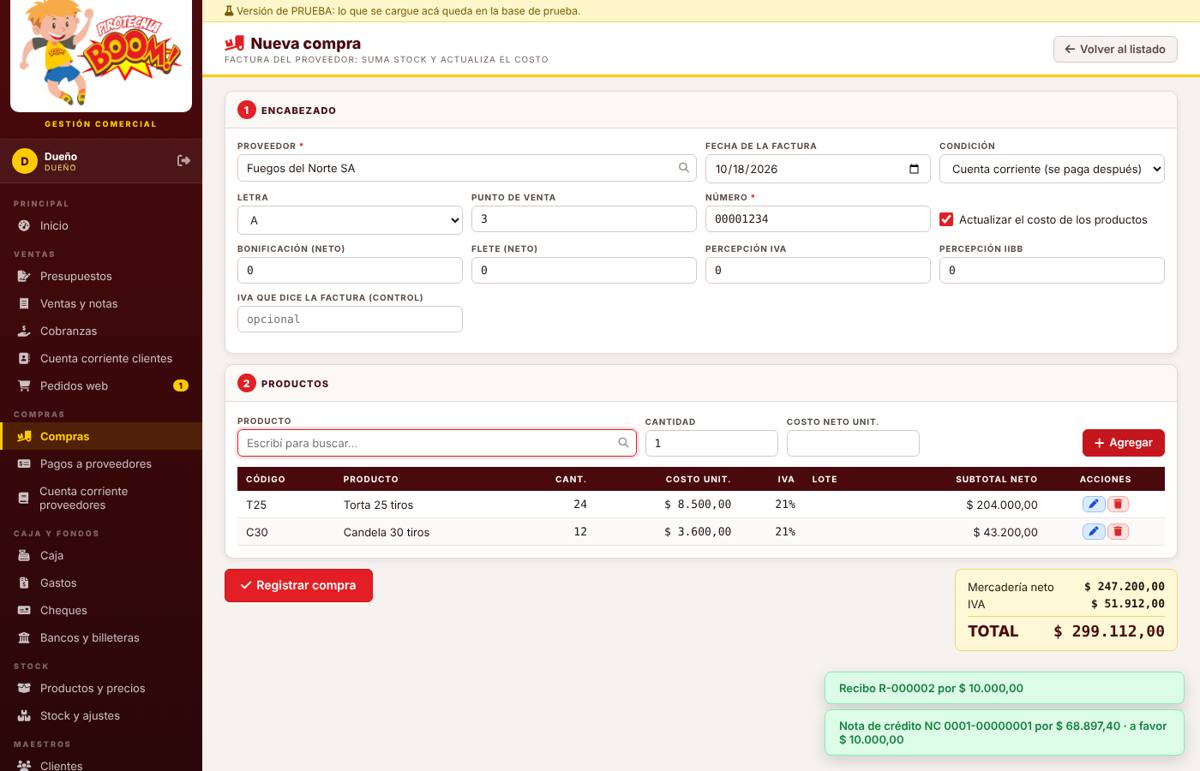
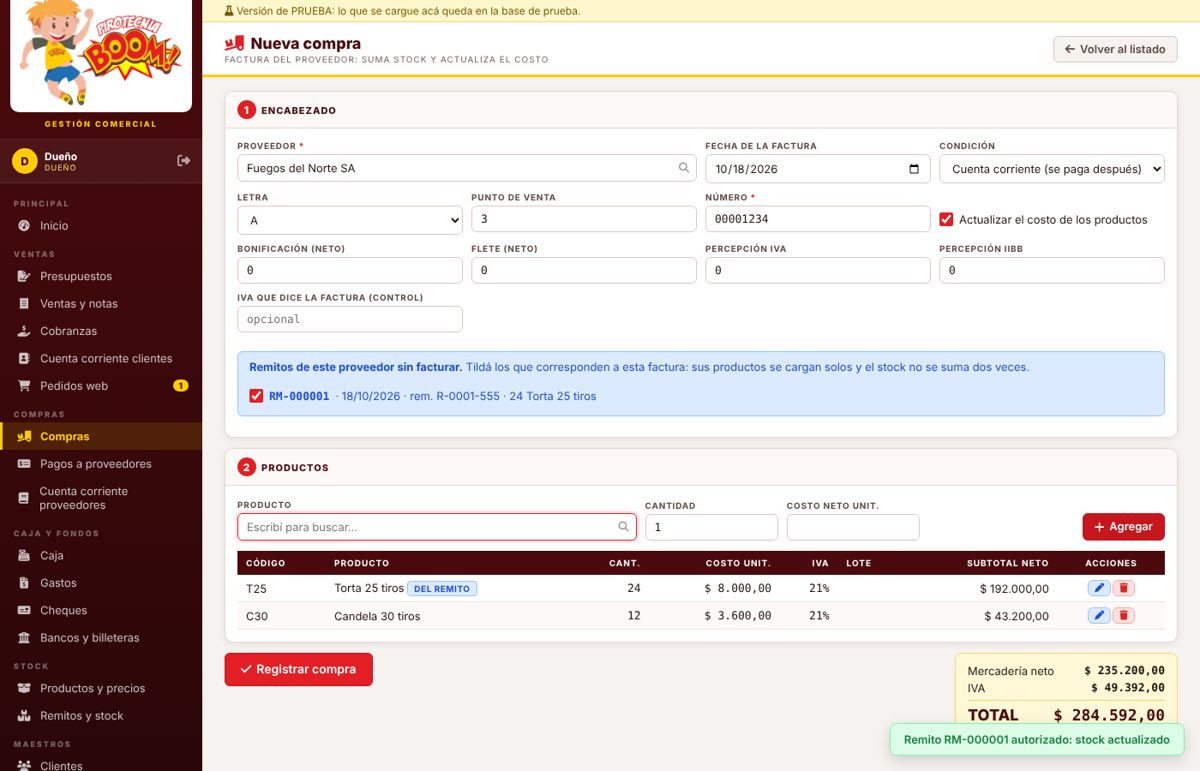
Manual y circuitos: remitos, compras con remitos y Libro IVA Compras
Claude-Session: https://claude.ai/code/session_017b1w5AMczjtWGQrhQYJVcd

diff --git a/manual/index.html b/manual/index.html
@@ -184,7 +184,7 @@ const S = [
     ['categorias','<b>Categorías</b>: los rubros del catálogo y su orden.'],
     ['proveedores','<b>Proveedores</b>.'],
     ['productos','<b>Productos y precios</b>: cada producto con su costo. Los precios salen solos.'],
-    ['stock','<b>Stock y ajustes</b>: un ajuste de tipo Inventario inicial con lo que hay en el depósito.'],
+    ['stock','<b>Remitos y stock</b>: un remito de <b>Ingreso</b> con motivo <b>Inventario inicial</b> con lo que hay en el depósito.'],
     ['conceptos','<b>Tipos y conceptos de gasto</b>: luz, alquiler, sueldos, etc.'],
     ['clientes','<b>Clientes</b> habituales y mayoristas (los nuevos también se cargan al vender).'],
     ['caja','<b>Caja</b>: abrila con el efectivo del día. Ya podés vender.']] },
@@ -192,7 +192,7 @@ const S = [
 { id:'inicio', g:'Principal', t:'Inicio', shot:'p_inicio', cap:'Tablero de Inicio.',
   para:'Resumen del día apenas entrás: cuánto se vendió, si la caja está abierta y qué está pendiente.',
   pasos:['Mirá las tarjetas de arriba: <b>Ventas de hoy</b>, <b>Ventas del mes</b> (ya descontadas las notas de crédito), <b>Cobrado hoy</b> y <b>Clientes deben</b>.',
-    'La segunda fila muestra si la <b>Caja</b> está abierta, cuántos <b>Pedidos web</b> esperan confirmación, cuántos <b>Presupuestos vigentes</b> hay y, para el dueño, cuánto <b>Debemos a proveedores</b> (el operador ve los productos bajo stock mínimo).',
+    'La segunda fila muestra si la <b>Caja</b> está abierta, cuántos <b>Pedidos web</b> esperan confirmación, cuántos <b>Presupuestos vigentes</b> hay, si hay <b>remitos para autorizar</b> y, para el dueño, cuánto <b>Debemos a proveedores</b> (el operador ve los productos bajo stock mínimo).',
     'El gráfico muestra las ventas de los últimos 7 días.',
     'El cuadro <b>Avisos</b> lista lo que hay que atender: caja cerrada, pedidos para confirmar, presupuestos que vencen en 2 días, cheques que vencen en la semana y productos bajo el mínimo. Cada aviso tiene un enlace que te lleva a la pantalla.',
     'Arriba a la derecha tenés atajos: ' + B('+ Nueva venta') + ' y ' + B('Nuevo presupuesto','y') + '.'],
@@ -300,9 +300,10 @@ const S = [
     'Si nadie lo confirma en 48 h, vence solo.'] },
 
 { id:'compras', g:'Compras', d:1, t:'Compras', shot:'50_compra', cap:'Carga de una factura de compra.',
-  para:'Facturas de proveedores. Suman stock y actualizan el costo de los productos, y con el costo se recalculan los precios.',
+  para:'Facturas de proveedores. Suman stock y actualizan el costo de los productos, y con el costo se recalculan los precios. Cada factura queda con su remito.',
   pasos:['Tocá ' + B('+ Nueva compra') + '.',
     '<b>Paso 1 · Encabezado.</b> Elegí el <b>Proveedor</b>, la <b>Fecha de la factura</b> y la <b>Condición</b>: Cuenta corriente (se paga después) o Contado (se paga ahora).',
+    '<b>Si la mercadería ya había llegado con remito</b>, al elegir el proveedor aparece un recuadro azul con sus <b>remitos sin facturar</b>. Tildá los que corresponden a esta factura: sus productos se cargan solos (dicen <b>DEL REMITO</b>) y solo tenés que poner el costo. Si no aparece nada, la factura da entrada al stock y genera su remito sola.',
     'Completá <b>Letra</b>, <b>Punto de venta</b> y <b>Número</b> tal como dice la factura.',
     'Si la factura tiene bonificación, flete o percepciones, cargalos. En <b>IVA que dice la factura</b> podés poner el IVA impreso para controlar que coincida.',
     'Dejá tildado <b>Actualizar el costo de los productos</b> para que los precios se recalculen con este costo.',
@@ -312,7 +313,10 @@ const S = [
     ['Bonificación / Flete (neto)','Sin IVA.','No'],['Percepción IVA / IIBB','Importe de cada percepción.','No'],['IVA que dice la factura','Solo para control.','No'],['Actualizar el costo','Tildado = los precios se recalculan.','No'],
     ['Producto, Cantidad, Costo neto unit.','Una línea por renglón de la factura.','Sí'],['Lote / vence','Solo en productos que lo piden.','A veces']],
   botones:[['Billete verde','Pagar la factura.'],['Flecha amarilla','Nota de crédito o débito del proveedor: por devolución de mercadería (elegís cantidades) o por importe (neto y alícuota).'],['Círculo tachado','Anular la compra: solo para errores de carga. Saca del stock lo que entró y vuelve el costo anterior. No se puede si esa mercadería ya se vendió o si la factura tiene pagos.']],
-  ojo:['Si el proveedor te devolvió plata o te bonificó, no anules: cargá una nota de crédito del proveedor.'] },
+  ojo:['Si la factura no coincide con los remitos tildados (otra cantidad o un producto de más), el sistema te muestra la diferencia y pregunta. Si confirmás, el stock queda <b>como dice la factura</b>.',
+    'El stock nunca se suma dos veces: lo que entró con el remito se reemplaza por lo que dice la factura, con su costo real.',
+    'Si anulás una factura que tenía remitos, esos remitos vuelven a quedar <b>sin facturar</b> y la mercadería sigue en stock.',
+    'Si el proveedor te devolvió plata o te bonificó, no anules: cargá una nota de crédito del proveedor.'] },
 
 { id:'pagos', g:'Compras', d:1, t:'Pagos a proveedores', shot:'p_pagos', cap:'Listado de órdenes de pago.',
   para:'Órdenes de pago a proveedores, separadas de las compras. Se paga con efectivo, transferencia, cheques de la cartera o cheques propios.',
@@ -383,16 +387,24 @@ const S = [
     ['Código de barras','Para buscar con lector.','No'],['Uso','Venta libre o Uso profesional.','No'],['Edad mínima','Años.','No'],['Descripción','Texto del catálogo.','No'],
     ['Controla stock','Destildar para servicios o conceptos.','No'],['Pide lote y vencimiento','Al comprar pide lote y fecha.','No'],['Nuevo / Destacado / Outlet','Etiquetas del catálogo.','No'],['Envío por correo','Si se puede mandar por correo.','No'],
     ['Fotos','Tocá <b>Subir fotos</b> y elegilas del celular o la computadora (o sacalas con la cámara). Se achican solas y se guardan en el sistema. La estrella elige la principal (la del catálogo); la cruz quita una. Se guardan al tocar Guardar.','No']],
-  ojo:['El stock no se edita acá: se mueve con compras, ventas, notas de crédito y ajustes.','El operador ve los productos pero no los puede modificar ni ve costos.'] },
+  ojo:['El stock no se edita acá: se mueve con compras, ventas, notas de crédito y remitos (menú Remitos y stock).','El operador ve los productos pero no los puede modificar ni ve costos.'] },
 
-{ id:'stock', g:'Stock', t:'Stock y ajustes', shot:'p_stock', cap:'Ajustes de stock y movimientos de un producto.',
-  para:'Inventario inicial, recuentos, mermas, roturas y vencidos. Cada cambio es un ajuste con su motivo.',
-  pasos:['Tocá ' + B('+ Nuevo ajuste') + ' (solo dueño).',
-    'Elegí el <b>Tipo</b>: Inventario inicial (entra), Recuento (+ o −), Merma, Rotura o Vencimiento (salen), Otro (+ o −). Escribí el <b>Motivo</b>.',
-    'Elegí el producto, poné la cantidad y tocá +. En merma, rotura y vencimiento poné la cantidad en positivo: el sistema la descuenta. En recuento poné +5 si sobran o −3 si faltan.',
-    'Tocá ' + B('Registrar ajuste') + '.',
+{ id:'stock', g:'Stock', t:'Remitos y stock', shot:'90_operador', cap:'Listado de remitos: uno para autorizar y uno ya facturado.',
+  para:'Toda entrada o salida de mercadería que no es una venta ni una factura de compra se hace con un <b>remito</b>. El operador lo carga y el <b>dueño lo autoriza</b>: recién ahí se mueve el stock.',
+  pasos:['Tocá ' + B('+ Nuevo remito') + '. Elegí <b>qué pasó con la mercadería</b> (un solo toque):',
+    B('Llegó de un proveedor','s') + ': mercadería que llegó sin factura (o la factura llega después). Elegí el <b>Proveedor</b>; el <b>N° de remito del proveedor</b> es opcional.',
+    B('Ingreso','s') + ': entra mercadería que no es compra. Motivo: Inventario inicial, Recuento (sobrante), Devolución de un cliente u Otro.',
+    B('Egreso','s') + ': sale mercadería que no es venta. Motivo: Merma, Rotura, Vencimiento, Recuento (faltante), Consumo interno / muestra u Otro.',
+    'Elegí el producto, poné la cantidad <b>siempre en positivo</b> y tocá ' + B('+ Agregar','s') + '. Repetí con cada producto.',
+    'Tocá ' + B('Grabar remito') + ' (operador: queda <b>Para autorizar</b>) o ' + B('Grabar y autorizar') + ' (dueño: el stock se mueve en el momento).',
+    '<b>Autorizar</b> (dueño): en el listado, tilde verde del remito → Confirmar. En el menú, el número amarillo junto a <b>Remitos y stock</b> dice cuántos esperan autorización.',
     'Abajo, en <b>Movimientos de un producto</b>, elegí uno y ves cada entrada y salida con su saldo.'],
-  ojo:['Las mermas y roturas se restan como costo en el estado de resultados.'] },
+  campos:[['¿Qué pasó con la mercadería?','Llegó de un proveedor, Ingreso o Egreso.','Sí'],['Proveedor','Solo si llegó de un proveedor.','Sí en ese caso'],['N° de remito del proveedor','El del papel del proveedor.','No'],['Fecha','De la entrega.','No'],
+    ['Motivo','Solo en Ingreso y Egreso.','Sí en ese caso'],['Nota','Detalle del movimiento.','Sí si el motivo es Otro'],['Producto + Cantidad','Al menos uno. Cantidad en positivo.','Sí']],
+  botones:[['Ojo','Ver el remito con sus productos.'],['PDF','Remito en PDF para imprimir o firmar.'],['Tilde verde','Autorizar (solo dueño, solo los pendientes).'],['Círculo tachado','Anular (solo dueño). Si ya estaba autorizado, el stock vuelve atrás. Un remito ya facturado no se anula: se anula la factura.']],
+  extra:`<div class="blk"><h2>Estados del remito</h2><p style="margin:0"><b>Para autorizar</b>: cargado, todavía no movió stock. · <b>Autorizado</b>: el stock ya se movió. · <b>Sin facturar</b>: llegó de un proveedor y espera su factura (aparece al cargar la compra). · <b>Facturado</b>: ya tiene su factura de compra. · <b>Anulado</b>: no cuenta.</p></div>
+  <div class="blk"><h2>El remito al cargar el producto</h2><a class="shot" data-z="img/48_remito.jpg"><img src="img/48_remito.jpg" alt="Nuevo remito" loading="lazy"></a><div class="shotcap">Remito de un proveedor cargado por el dueño.</div></div>`,
+  ojo:['Si en un egreso no hay stock suficiente, el sistema no lo deja autorizar.','Las mermas, roturas y vencidos se restan como costo en el estado de resultados.','Nada se borra: un remito equivocado se anula con su motivo.'] },
 
 { id:'clientes', g:'Maestros', t:'Clientes', shot:'p_clientes', cap:'Listado de clientes.',
   para:'Consumidores y mayoristas, con su deuda y saldo a favor.',
@@ -420,9 +432,12 @@ const S = [
   ojo:['Dar de baja no borra: el registro deja de aparecer en las listas para elegir, pero su historia queda.'] },
 
 { id:'reportes', g:'Reportes', t:'Reportes', shot:'80_resultados', cap:'Estado de resultados del mes.',
-  para:'Dos reportes: el estado de resultados (solo dueño) y las ventas agrupadas.',
+  para:'Tres reportes: el estado de resultados y el Libro IVA Compras (solo dueño), y las ventas agrupadas.',
   pasos:['<b>Estado de resultados</b>: elegí Desde y Hasta. Muestra, sin IVA: ventas brutas, descuentos, recargos, notas de crédito y débito, <b>ventas netas</b>, costo de la mercadería vendida, mermas, <b>margen bruto</b>, cada tipo de gasto y el <b>resultado</b> (ganancia o pérdida), con el % de cada línea sobre las ventas. ' + B('PDF','s') + ' lo descarga.',
-    '<b>Ventas por producto</b>: elegí el período y <b>Agrupar por</b> Producto, Categoría, Cliente, Lista o Día. Muestra cantidad, neto y total; el dueño también ve costo, ganancia y margen %.'] },
+    '<b>Ventas por producto</b>: elegí el período y <b>Agrupar por</b> Producto, Categoría, Cliente, Lista o Día. Muestra cantidad, neto y total; el dueño también ve costo, ganancia y margen %.',
+    '<b>Libro IVA Compras</b>: elegí Desde y Hasta (por defecto, el mes). Una línea por factura, nota de crédito o débito de proveedor con fecha, número, proveedor, CUIT, condición IVA, neto gravado, no gravado, IVA 21 %, 10,5 % y 27 %, percepciones y total. Las notas de crédito restan. Arriba, los totales del período. ' + B('Excel','s') + ' o ' + B('PDF','s') + ' para el contador.'],
+  extra:`<div class="blk"><h2>Libro IVA Compras</h2><a class="shot" data-z="img/95_ivacompras.jpg"><img src="img/95_ivacompras.jpg" alt="Libro IVA Compras" loading="lazy"></a><div class="shotcap">Libro IVA Compras del mes. Los datos son de prueba.</div></div>`,
+  ojo:['El Libro IVA sale de las compras cargadas: si una factura no se cargó, no aparece. Las anuladas no cuentan.'] },
 
 { id:'sistema', g:'Sistema', t:'Usuarios, empresa y contraseña', shot:'p_usuarios', cap:'Usuarios del sistema.',
   para:'Quién entra al sistema, los datos de la empresa que salen en los PDF y en el catálogo, y tu contraseña.',
@@ -528,4 +543,3 @@ document.addEventListener('keydown', e => { if (e.key === 'Escape') { document.q
 window.addEventListener('hashchange', () => ir(location.hash.slice(1)));
 rol(ROL); ir(location.hash.slice(1) || 'empezar');
 </script>
-</body></html>

diff --git a/circuitos/index.html b/circuitos/index.html
@@ -65,11 +65,11 @@ a:focus-visible{outline:2px solid var(--amarillo);outline-offset:2px}
 </header>
 
 <nav>
-  <a href="#p"><b>P</b>Presupuesto</a><a href="#v"><b>V</b>Venta</a><a href="#w"><b>W</b>Pedido web</a><a href="#c"><b>C</b>Cobranza</a><a href="#k"><b>K</b>Compra</a><a href="#o"><b>O</b>Pago a proveedor</a><a href="#s"><b>S</b>Stock</a><a href="#j"><b>J</b>Caja</a><a href="#g"><b>G</b>Gastos</a><a href="#q"><b>Q</b>Cheques</a><a href="#r"><b>R</b>Precios</a>
+  <a href="#p"><b>P</b>Presupuesto</a><a href="#v"><b>V</b>Venta</a><a href="#w"><b>W</b>Pedido web</a><a href="#c"><b>C</b>Cobranza</a><a href="#k"><b>K</b>Compra</a><a href="#o"><b>O</b>Pago a proveedor</a><a href="#s"><b>S</b>Remitos y stock</a><a href="#j"><b>J</b>Caja</a><a href="#g"><b>G</b>Gastos</a><a href="#q"><b>Q</b>Cheques</a><a href="#r"><b>R</b>Precios</a>
 </nav>
 
 <section id="p">
-  <h2><span class="cod">P</span>Presupuesto <span class="nuevo">cambiado hoy</span></h2>
+  <h2><span class="cod">P</span>Presupuesto</h2>
   <div class="flujo">
     <div class="p est"><b>En carga</b><span>Encabezado y productos. Se puede cambiar todo.</span></div><div class="fl">→</div>
     <div class="p"><b>Grabar presupuesto</b><span>Botón al pie. Recién ahí aparecen PDF, WhatsApp y Convertir.</span></div><div class="fl">→</div>
@@ -163,18 +163,18 @@ a:focus-visible{outline:2px solid var(--amarillo);outline-offset:2px}
 </section>
 
 <section id="k">
-  <h2><span class="cod">K</span>Compra a proveedor <small>solo dueño</small></h2>
-  <div class="flujo">
-    <div class="p"><b>Encabezado</b><span>Proveedor, letra, punto de venta, número, fecha, condición.</span></div><div class="fl">→</div>
-    <div class="p"><b>Productos</b><span>Cantidad y costo neto de la factura. Bonificación, flete, percepciones.</span></div><div class="fl">→</div>
-    <div class="p fin"><b>Registrar compra</b><span>Suma stock y actualiza el costo.</span></div><div class="fl">→</div>
-    <div class="p"><b>Precios recalculados</b><span>Todas las listas, solos.</span></div>
+  <h2><span class="cod">K</span>Compra a proveedor <small>solo dueño</small> <span class="nuevo">nuevo: con remitos</span></h2>
+  <div class="ramas">
+    <div class="flujo"><span class="r">Llega la mercadería con factura</span><div class="fl">→</div><div class="p"><b>Cargar la factura</b><span>Proveedor, número, productos y costo.</span></div><div class="fl">→</div><div class="p fin"><b>Registrar compra</b><span>Suma stock, actualiza el costo y <b>genera su remito sola</b>.</span></div></div>
+    <div class="flujo"><span class="r">Llega sin factura</span><div class="fl">→</div><div class="p"><b>Remito de proveedor</b><span>Circuito S. Al autorizarlo entra al stock.</span></div><div class="fl">→</div><div class="p est"><b>Sin facturar</b><span>Espera su factura.</span></div><div class="fl">→</div><div class="p"><b>Cargar la factura</b><span>Al elegir el proveedor aparecen sus remitos: tildás y los productos se cargan solos.</span></div><div class="fl">→</div><div class="p fin"><b>Facturado</b><span>No suma stock dos veces.</span></div></div>
   </div>
+  <h3>Después de registrar</h3>
   <div class="ramas">
     <div class="flujo"><span class="r">Contado</span><div class="fl">→</div><div class="p"><b>Pago en el momento</b></div></div>
     <div class="flujo"><span class="r">Cuenta corriente</span><div class="fl">→</div><div class="p"><b>Deuda con el proveedor</b><span>Se paga con el circuito O.</span></div></div>
     <div class="flujo"><span class="r">Devolución o bonificación del proveedor</span><div class="fl">→</div><div class="p"><b>NC / ND del proveedor</b><span>Con devolución, sale del stock.</span></div></div>
-    <div class="flujo"><span class="r">Error de carga</span><div class="fl">→</div><div class="p malo"><b>Anular compra</b><span>Saca el stock y vuelve el costo anterior.</span></div></div>
+    <div class="flujo"><span class="r">Error de carga</span><div class="fl">→</div><div class="p malo"><b>Anular compra</b><span>Saca el stock y vuelve el costo anterior. Sus remitos vuelven a “sin facturar”.</span></div></div>
+    <div class="flujo"><span class="r">Para el contador</span><div class="fl">→</div><div class="p"><b>Libro IVA Compras</b><span>Reportes. Excel o PDF del período.</span></div></div>
   </div>
   <h3>Reglas actuales</h3>
   <ul class="reg">
@@ -182,6 +182,9 @@ a:focus-visible{outline:2px solid var(--amarillo);outline-offset:2px}
     <li><code>K2</code><span>La ganancia se calcula con el <b>costo promedio</b> del stock.</span></li>
     <li><code>K3</code><span>No se puede anular una compra si esa mercadería <b>ya se vendió</b> o si la factura <b>tiene pagos</b>.</span></li>
     <li><code>K4</code><span>Productos con vencimiento piden <b>lote y fecha</b> al comprar.</span></li>
+    <li><code>K5</code><span>El <b>costo se actualiza con la factura</b>, no con el remito: el remito entra al costo de ese momento y la factura lo corrige con el costo real.</span></li>
+    <li><code>K6</code><span>Si la factura <b>no coincide</b> con los remitos tildados, el sistema muestra la diferencia y pregunta. Si confirmás, <b>el stock queda como dice la factura</b>.</span></li>
+    <li><code>K7</code><span>Solo se pueden facturar remitos <b>autorizados</b> y del <b>mismo proveedor</b>.</span></li>
   </ul>
 </section>
 
@@ -201,16 +204,31 @@ a:focus-visible{outline:2px solid var(--amarillo);outline-offset:2px}
 </section>
 
 <section id="s">
-  <h2><span class="cod">S</span>Stock</h2>
+  <h2><span class="cod">S</span>Remitos y stock <span class="nuevo">nuevo</span></h2>
+  <div class="flujo">
+    <div class="p"><b>Nuevo remito</b><span>Un toque: Llegó de un proveedor · Ingreso · Egreso.</span></div><div class="fl">→</div>
+    <div class="p"><b>Productos y cantidades</b><span>Siempre en positivo. Motivo en ingreso y egreso.</span></div><div class="fl">→</div>
+    <div class="p est"><b>Para autorizar</b><span>Si lo cargó el operador. No mueve stock todavía.</span></div><div class="fl">→</div>
+    <div class="p fin"><b>Autorizado</b><span>El dueño lo autoriza: el stock se mueve.</span></div>
+  </div>
+  <div class="ramas">
+    <div class="flujo"><span class="r">Lo carga el dueño</span><div class="fl">→</div><div class="p fin"><b>Grabar y autorizar</b><span>En un solo paso.</span></div></div>
+    <div class="flujo"><span class="r">Llegó de un proveedor</span><div class="fl">→</div><div class="p est"><b>Sin facturar</b><span>Hasta que se carga su factura (circuito K).</span></div></div>
+    <div class="flujo"><span class="r">Error</span><div class="fl">→</div><div class="p malo"><b>Anular</b><span>Solo dueño, con motivo. Si estaba autorizado, el stock vuelve atrás.</span></div></div>
+  </div>
+  <h3>Qué mueve el stock</h3>
   <div class="tw"><table><thead><tr><th>Entra</th><th>Sale</th><th>Queda reservado</th></tr></thead><tbody>
-    <tr><td style="white-space:normal">Compras · NC de venta con devolución · Ajuste de inventario inicial · Recuento +</td><td>Ventas · NC del proveedor con devolución · Merma, rotura, vencimiento · Recuento −</td><td>Pedidos web abiertos</td></tr></tbody></table></div>
+    <tr><td style="white-space:normal">Factura de compra · Remito de proveedor · Remito de ingreso (inventario inicial, recuento, devolución) · NC de venta con devolución</td><td>Ventas · Remito de egreso (merma, rotura, vencimiento, recuento, consumo) · NC del proveedor con devolución</td><td>Pedidos web abiertos</td></tr></tbody></table></div>
   <p style="margin:0"><b>Disponible = stock − reservado.</b> Es lo que se puede vender.</p>
   <h3>Reglas actuales</h3>
   <ul class="reg">
-    <li><code>S1</code><span>El stock <b>no se edita a mano</b>: cada cambio es un movimiento con motivo.</span></li>
-    <li><code>S2</code><span>Los ajustes los hace <b>solo el dueño</b>.</span></li>
-    <li><code>S3</code><span>El stock <b>no puede quedar negativo</b> (ver V1).</span></li>
+    <li><code>S1</code><span>El stock <b>no se edita a mano</b>: toda entrada o salida que no es venta ni compra es un <b>remito</b> con motivo.</span></li>
+    <li><code>S2</code><span>El operador <b>carga</b> remitos; el <b>dueño autoriza</b>. Recién autorizado se mueve el stock. El número amarillo del menú avisa cuántos esperan.</span></li>
+    <li><code>S3</code><span>El stock <b>no puede quedar negativo</b>: un egreso sin stock suficiente no se autoriza (ver V1).</span></li>
     <li><code>S4</code><span>Debajo del stock mínimo de un producto, avisa en Inicio.</span></li>
+    <li><code>S5</code><span>Con motivo <b>Otro</b> la nota es obligatoria.</span></li>
+    <li><code>S6</code><span>Un remito <b>facturado no se anula</b>: se anula la factura.</span></li>
+    <li><code>S7</code><span>Las mermas, roturas y vencidos van como <b>costo</b> en el estado de resultados.</span></li>
   </ul>
 </section>
 
@@ -275,4 +293,3 @@ a:focus-visible{outline:2px solid var(--amarillo);outline-offset:2px}
 
 <footer>Respondé con los códigos que quieras cambiar. Lo que no menciones queda como está.</footer>
 </div>
-</body></html>
